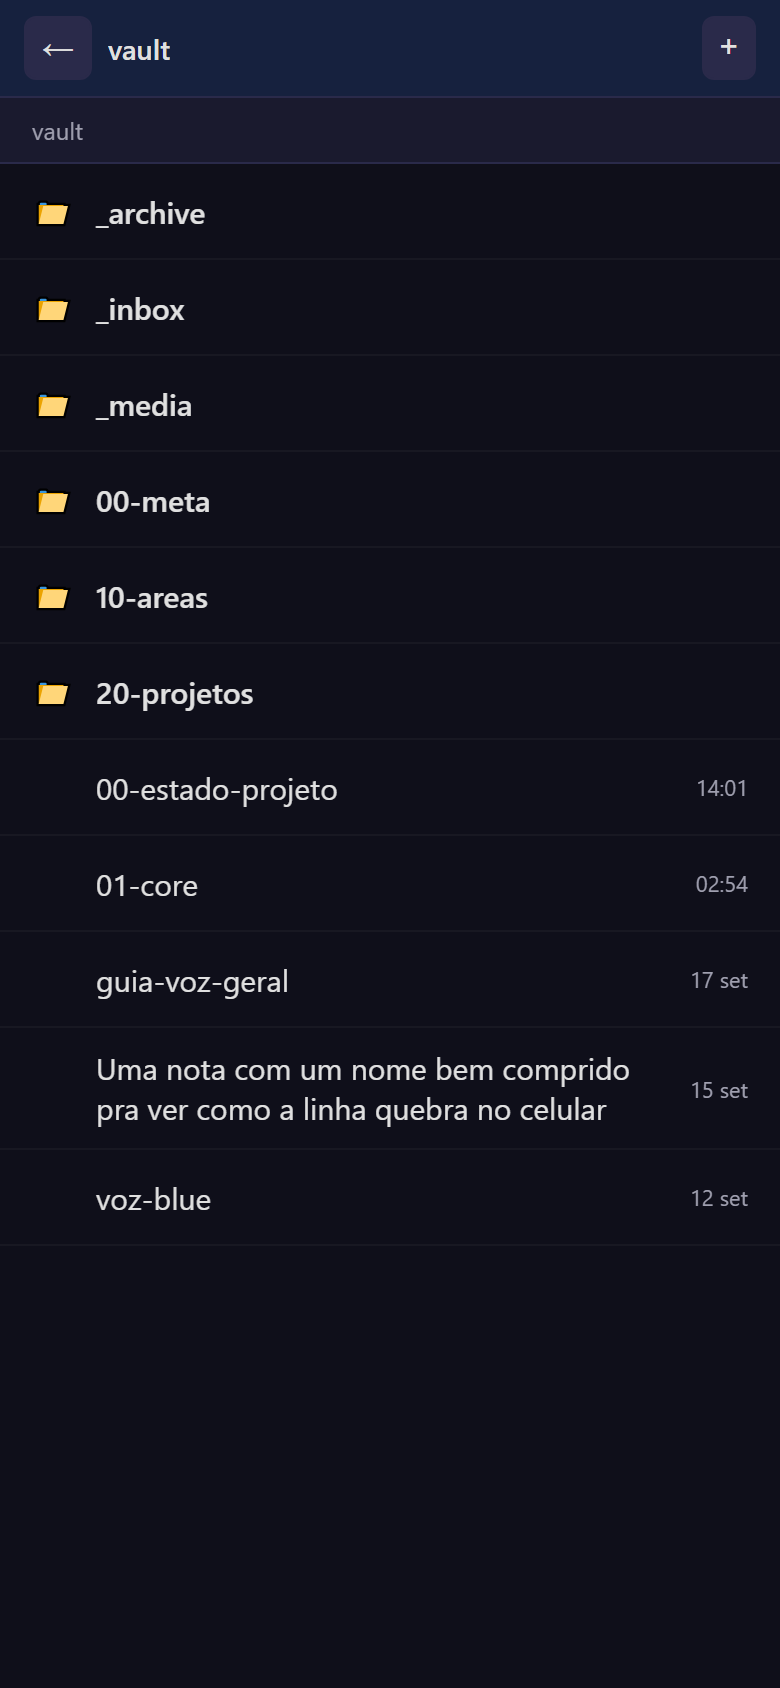
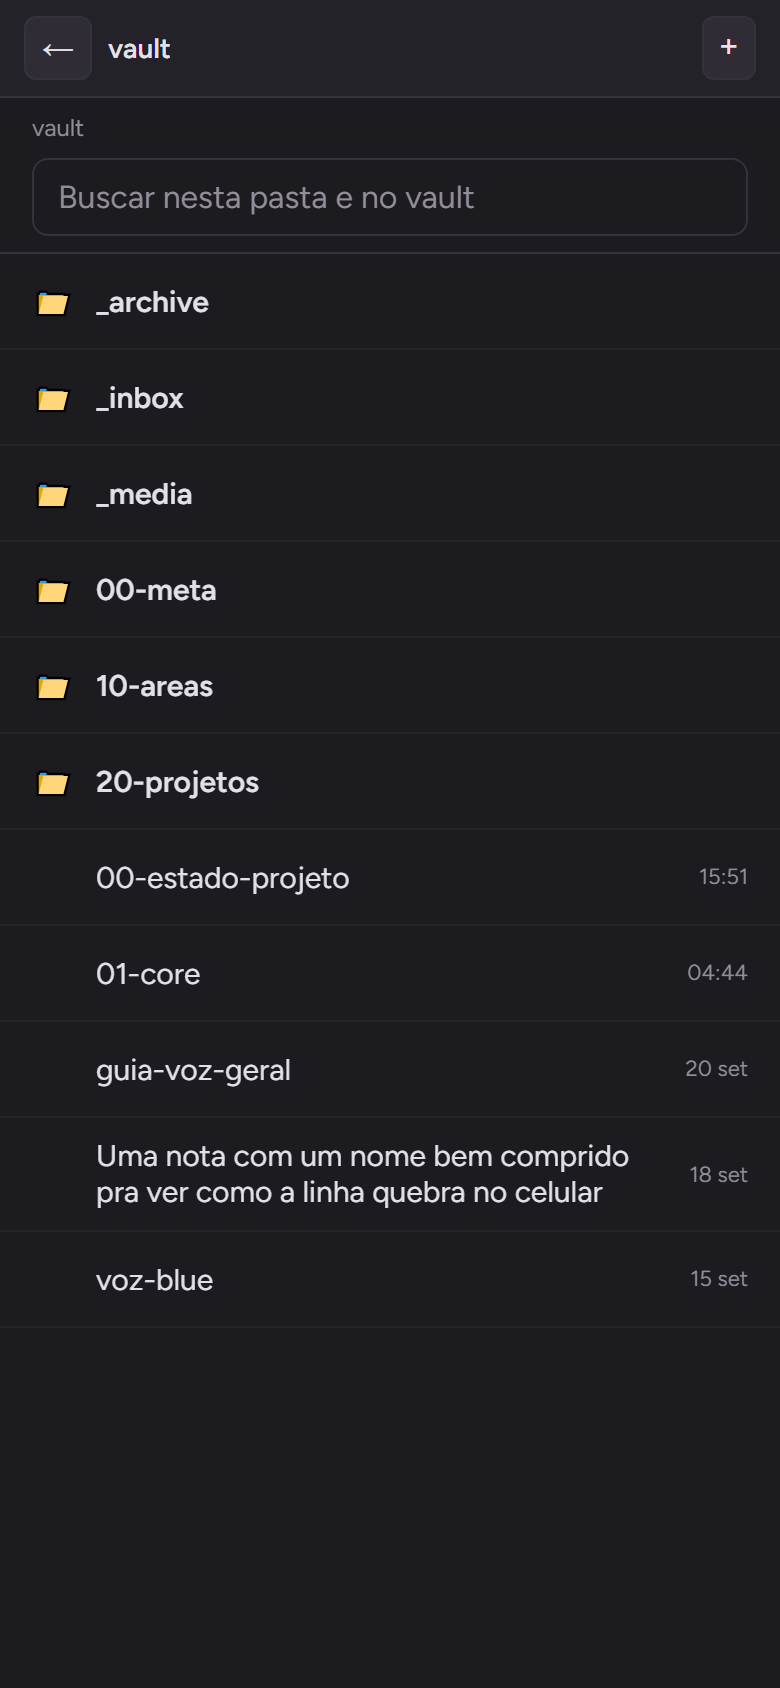
Prints do README com o tema novo, e a tela de edição
- Início, pastas e leitura refeitos com o npm run screenshots: os de
  antes ainda mostravam o tema anterior a 28064eb
- Entra a tela de edição, com a barra de formatação; as quatro em 200px
  pra caberem numa linha
- O modo datilografia na lista do que o app faz

diff --git a/README.md b/README.md
@@ -15,9 +15,10 @@ Então fiz o meu. Hoje é por ele que eu leio e escrevo no vault quando estou lo
 ## Telas
 
 <p>
-  <img src="docs/screenshots/inicio.png" alt="Tela inicial com notas não sincronizadas e recentes" width="240">
-  <img src="docs/screenshots/pastas.png" alt="Navegador de pastas do vault" width="240">
-  <img src="docs/screenshots/leitura.png" alt="Modo leitura com callouts, links e checklist" width="240">
+  <img src="docs/screenshots/inicio.png" alt="Tela inicial com notas não sincronizadas e recentes" width="200">
+  <img src="docs/screenshots/pastas.png" alt="Navegador de pastas do vault" width="200">
+  <img src="docs/screenshots/leitura.png" alt="Modo leitura com callouts, links e checklist" width="200">
+  <img src="docs/screenshots/edicao.png" alt="Edição com o markdown da nota e a barra de formatação" width="200">
 </p>
 
 ## O que faz
@@ -36,6 +37,7 @@ Então fiz o meu. Hoje é por ele que eu leio e escrevo no vault quando estou lo
 - Datas no padrão do vault: nota nova nasce com `created` e `updated` nas propriedades, e salvar uma edição troca o `updated` pra data do dia. `created` nunca é inventado em nota antiga, e pastas como `_templates` e `_archive` ficam de fora.
 - Barra de formatação fixa acima do teclado virtual, sem fechar o teclado a cada toque.
 - Funciona com ditado por voz, e a página encolhe junto com o teclado pra ele não cobrir o texto.
+- Modo datilografia: a linha que se escreve para no meio da tela e o texto sobe uma linha por vez, em vez de afundar até a borda do teclado.
 - Foto direto na nota, com um botão pra câmera e outro pra galeria: a imagem é reduzida no aparelho, sobe pra pasta de anexos do vault e entra como `![[foto-...jpg]]`, do jeito que o Obsidian espera.
 - Na edição o texto é markdown cru, mas a linha do `![[foto.jpg]]` mostra a imagem embaixo: dá pra escrever olhando pro que se está descrevendo.
 - Desenhar na nota: tela cheia pra rabiscar com o dedo, seis cores, três espessuras, borracha e desfazer. Sai um PNG de fundo transparente, recortado no traço, que funciona tanto no tema escuro do app quanto no claro do Obsidian.
